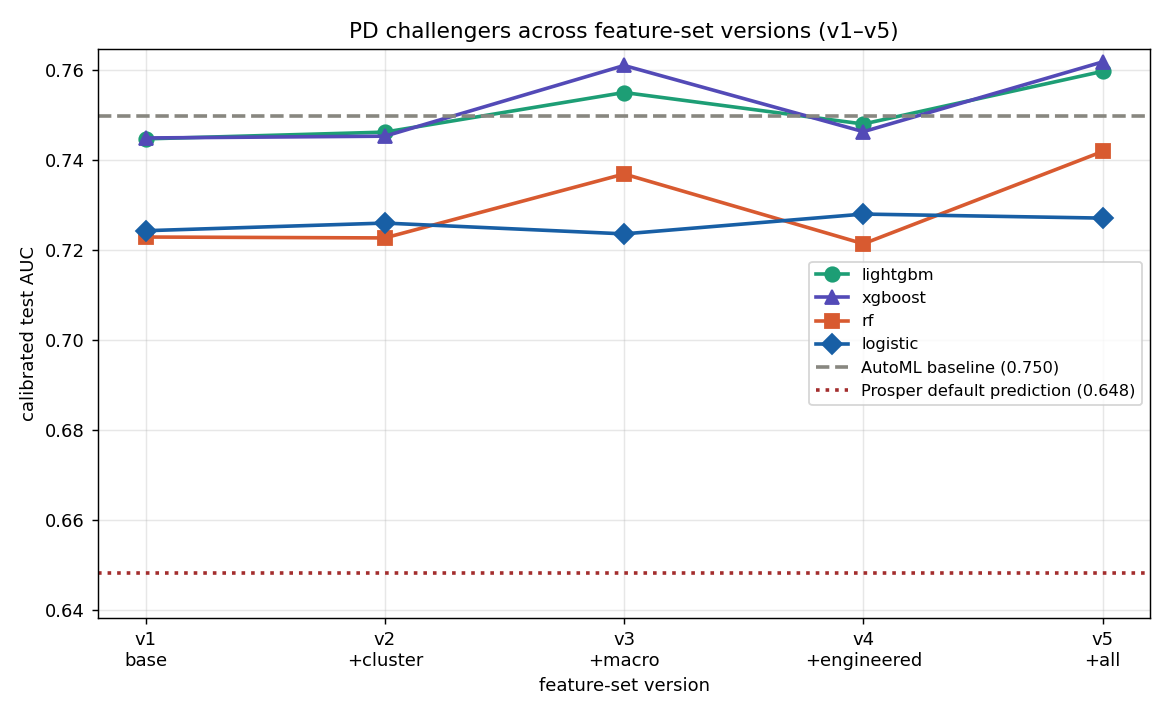
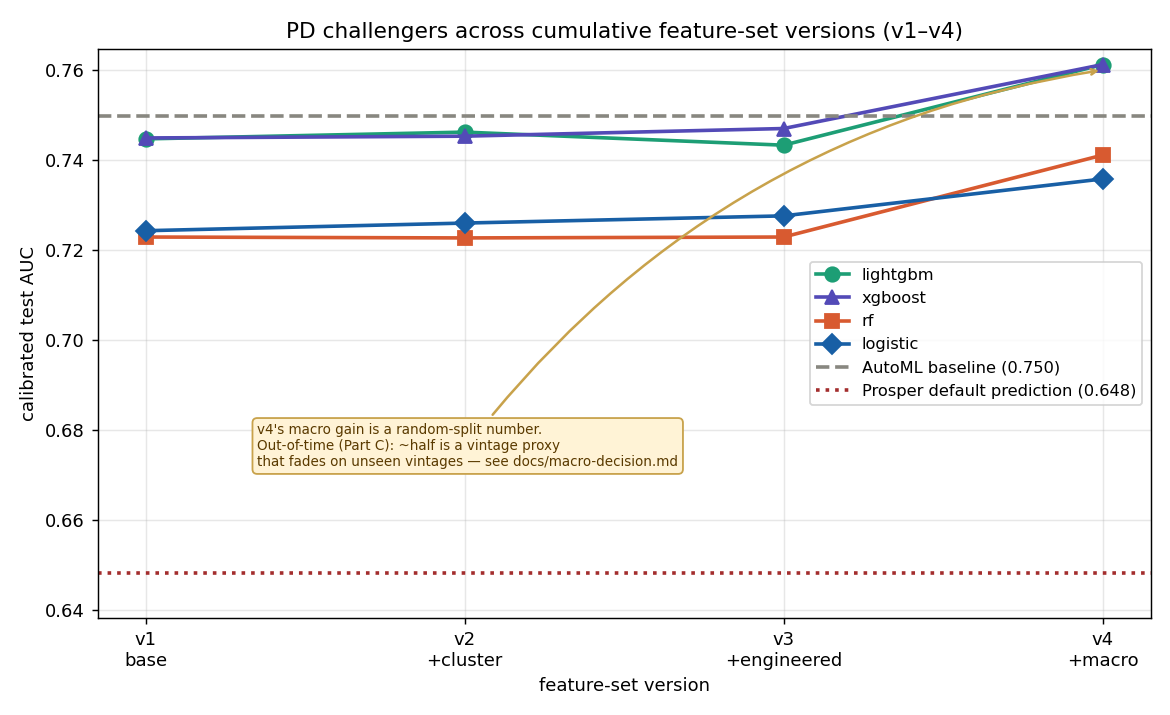
updated documentation and scripts to use XGBoost which was best finetuned model

diff --git a/modeling/calibration_report.py b/modeling/calibration_report.py
@@ -1,0 +1,66 @@
+"""Phase 1 — calibration diagnostics for the production PD model (calibrated XGBoost).
+
+A PD must be a true probability for the Expected-Loss / pricing engine, not just a good ranking.
+This reports two calibration views on the held-out test set:
+  1. by predicted-PD decile  — predicted vs actual default rate in each risk band
+  2. by vintage (origination year) — does the model stay calibrated across cohorts / over time?
+
+  python modeling/calibration_report.py
+
+Saves model-results/calibration_decile.csv and calibration_vintage.csv.
+"""
+from __future__ import annotations
+
+import sys
+from pathlib import Path
+
+import joblib
+import pandas as pd
+
+REPO_ROOT = Path(__file__).resolve().parents[1]
+sys.path.insert(0, str(REPO_ROOT / "modeling"))
+sys.path.insert(0, str(REPO_ROOT / "data"))
+
+from common import data as D, metrics as M  # noqa: E402
+import features as F  # noqa: E402
+
+RESULTS_DIR = REPO_ROOT / "modeling" / "model-results"
+PD_FINE = REPO_ROOT / "modeling" / "probability-of-default" / "pd_xgboost.joblib"
+FMT = {"pred_PD": "{:.3f}".format, "actual_PD": "{:.3f}".format, "gap": "{:+.3f}".format}
+
+
+def main() -> None:
+    if not PD_FINE.exists():
+        raise SystemExit("pd_xgboost.joblib not found — run finetune_xgboost.py first.")
+    art = joblib.load(PD_FINE)
+    pre, model, cols = art["preprocessor"], art["model"], art["feature_cols"]
+
+    test = D.load_frame("test")
+    p = model.predict_proba(pre.transform(test[cols]))[:, 1]   # calibrated PD
+    y = test[F.PD_TARGET].astype(int).to_numpy()
+
+    # 1. By predicted-PD decile.
+    dec = M.calibration_table(y, p, bins=10)
+    print("=== Calibration by predicted-PD decile (held-out test set) ===")
+    print(dec.to_string(index=False, formatters=FMT))
+
+    # 2. By vintage (origination year).
+    year = pd.to_datetime(test["LoanOriginationDate"], errors="coerce").dt.year
+    vint = (pd.DataFrame({"year": year, "y": y, "p": p}).dropna(subset=["year"])
+            .groupby("year").agg(n=("y", "size"), pred_PD=("p", "mean"), actual_PD=("y", "mean")))
+    vint["gap"] = vint["pred_PD"] - vint["actual_PD"]
+    vint = vint.reset_index()
+    vint["year"] = vint["year"].astype(int)
+    print("\n=== Calibration by vintage (origination year, test set) ===")
+    print(vint.to_string(index=False, formatters=FMT))
+
+    RESULTS_DIR.mkdir(parents=True, exist_ok=True)
+    dec.to_csv(RESULTS_DIR / "calibration_decile.csv", index=False)
+    vint.to_csv(RESULTS_DIR / "calibration_vintage.csv", index=False)
+    mae = float((dec["gap"].abs() * dec["n"]).sum() / dec["n"].sum())
+    print(f"\nWeighted mean |predicted - actual| across deciles: {mae:.4f}")
+    print(f"saved calibration_decile.csv + calibration_vintage.csv to {RESULTS_DIR}")
+
+
+if __name__ == "__main__":
+    main()

diff --git a/modeling/common/predictor.py b/modeling/common/predictor.py
@@ -1,10 +1,10 @@
 """RiskPredictor — the single in-process scoring API the frontend uses.
 
 EAD and LGD are always the AutoGluon baselines. PD can come from either the AutoGluon
-baseline ('automl') or the fine-tuned, calibrated LightGBM challenger ('finetuned') —
-the `family` argument is the app's toggle. Only PD has a tuned challenger in v1; EAD/LGD
+baseline ('automl') or the fine-tuned, calibrated XGBoost challenger ('finetuned') —
+the `family` argument is the app's toggle. Only PD has a tuned challenger; EAD/LGD
 are identical across families. For the finetuned family, explain_pd() returns per-borrower
-SHAP reason codes from the LightGBM booster (the adverse-action-style "why").
+SHAP reason codes from the XGBoost booster (the adverse-action-style "why").
 """
 from __future__ import annotations
 
@@ -24,10 +24,10 @@ import features as F  # noqa: E402
 PD_DIR = REPO_ROOT / "modeling" / "probability-of-default" / "automl_model"
 EAD_DIR = REPO_ROOT / "modeling" / "exposure-at-default" / "automl_model"
 LGD_DIR = REPO_ROOT / "modeling" / "loss-given-default" / "automl_model"
-LGBM_PD = REPO_ROOT / "modeling" / "probability-of-default" / "pd_lightgbm.joblib"
+PD_FINE = REPO_ROOT / "modeling" / "probability-of-default" / "pd_xgboost.joblib"
 DEFAULTS_PATH = REPO_ROOT / "models" / "feature_defaults.json"
 
-FAMILY_LABELS = {"automl": "AutoML baseline", "finetuned": "LightGBM (fine-tuned PD)"}
+FAMILY_LABELS = {"automl": "AutoML baseline", "finetuned": "XGBoost (fine-tuned PD)"}
 
 
 def available_families() -> list[str]:
@@ -36,7 +36,7 @@ def available_families() -> list[str]:
     reg = EAD_DIR.exists() and LGD_DIR.exists()
     if PD_DIR.exists() and reg:
         fams.append("automl")
-    if LGBM_PD.exists() and reg:
+    if PD_FINE.exists() and reg:
         fams.append("finetuned")
     return fams
 
@@ -46,7 +46,7 @@ class RiskPredictor:
         self.ead = TabularPredictor.load(str(EAD_DIR))
         self.lgd = TabularPredictor.load(str(LGD_DIR))
         self.pd_automl = TabularPredictor.load(str(PD_DIR)) if PD_DIR.exists() else None
-        self.pd_lgbm = joblib.load(LGBM_PD) if LGBM_PD.exists() else None
+        self.pd_fine = joblib.load(PD_FINE) if PD_FINE.exists() else None
         # Persisted KMeans pipeline (impute->quantile-scale->cluster) for RiskCluster; the
         # SAME object fit on train is applied here in production (no re-fit, no leakage).
         self.risk_cluster = joblib.load(F.RISK_CLUSTER_PATH) if F.RISK_CLUSTER_PATH.exists() else None
@@ -75,12 +75,12 @@ class RiskPredictor:
 
     def _pd(self, X: pd.DataFrame, family: str) -> float:
         if family == "finetuned":
-            if self.pd_lgbm is None:
-                raise RuntimeError("LightGBM PD model not found — run finetune_lightgbm.py")
-            # The fine-tuned model was trained on base + engineered + RiskCluster features,
+            if self.pd_fine is None:
+                raise RuntimeError("XGBoost PD model not found — run finetune_xgboost.py")
+            # The fine-tuned model was trained on base + engineered + RiskCluster + TTC macro,
             # so reproduce all of them on the scoring row before the preprocessor sees it.
-            Xe = self.pd_lgbm["preprocessor"].transform(self._engineer(X))
-            return float(self.pd_lgbm["model"].predict_proba(Xe)[:, 1][0])
+            Xe = self.pd_fine["preprocessor"].transform(self._engineer(X))
+            return float(self.pd_fine["model"].predict_proba(Xe)[:, 1][0])
         proba = self.pd_automl.predict_proba(X)
         pcol = 1 if 1 in proba.columns else proba.columns[-1]
         return float(proba[pcol].iloc[0])
@@ -94,21 +94,26 @@ class RiskPredictor:
         return {"pd": pd_, "lgd": lgd, "ead": ead, "el": pd_ * lgd * ead, "family": family}
 
     def explain_pd(self, inputs: dict, top: int = 6) -> list[tuple[str, float]]:
-        """Top SHAP drivers of this borrower's PD from the LightGBM booster.
+        """Top SHAP drivers of this borrower's PD from the XGBoost booster.
 
         Returns (encoded_feature, log_odds_contribution); positive raises PD. SHAP
         explains the pre-calibration booster, the honest "what drove the score" story.
         """
-        if self.pd_lgbm is None:
+        if self.pd_fine is None:
             return []
         import shap
 
         X = self._row(inputs)
-        Xe = self.pd_lgbm["preprocessor"].transform(self._engineer(X))
+        Xe = self.pd_fine["preprocessor"].transform(self._engineer(X))
         if self._explainer is None:
-            self._explainer = shap.TreeExplainer(self.pd_lgbm["estimator"])
+            self._explainer = shap.TreeExplainer(self.pd_fine["estimator"])
         sv = self._explainer.shap_values(Xe)
         vals = np.asarray(sv[1] if isinstance(sv, list) else sv).reshape(-1)
         feats = list(Xe.columns)
-        order = np.argsort(np.abs(vals))[::-1][:top]
-        return [(feats[i], float(vals[i])) for i in order]
+        # Macro / regional features are identical for every applicant on a given day — they shift
+        # the whole PD level with the cycle, but they don't explain why THIS borrower is riskier
+        # than the next. So drop them from the per-borrower "Why?" reason codes. They still drive
+        # the model; they're just not a valid adverse-action explanation.
+        ranked = [i for i in np.argsort(np.abs(vals))[::-1]
+                  if not feats[i].startswith(("macro_", "state_"))]
+        return [(feats[i], float(vals[i])) for i in ranked[:top]]

diff --git a/modeling/common/metrics.py b/modeling/common/metrics.py
@@ -2,8 +2,10 @@
 from __future__ import annotations
 
 import numpy as np
+import pandas as pd
 from scipy.stats import ks_2samp
 from sklearn.metrics import (
+    average_precision_score,
     brier_score_loss,
     log_loss,
     mean_absolute_error,
@@ -21,11 +23,34 @@ def pd_metrics(y_true, y_score, calibration: bool = True) -> dict:
     y_score = np.asarray(y_score, dtype=float)
     auc = roc_auc_score(y_true, y_score)
     ks = ks_2samp(y_score[y_true == 1], y_score[y_true == 0]).statistic
-    out = {"AUC": auc, "Gini": 2 * auc - 1, "KS": ks}
+    # PR_AUC (average precision) focuses on the positive/default class. SECONDARY metric: it is
+    # prevalence-dependent (a random model scores BaseRate), so always read it next to BaseRate
+    # and never compare it across splits with different default rates (e.g. random vs OOT).
+    out = {"AUC": auc, "Gini": 2 * auc - 1, "KS": ks,
+           "PR_AUC": average_precision_score(y_true, y_score),
+           "BaseRate": float(np.mean(y_true))}
     if calibration:
         out["Brier"] = brier_score_loss(y_true, y_score)
         out["LogLoss"] = log_loss(y_true, y_score)
     return out
+
+
+def calibration_table(y_true, y_score, bins: int = 10) -> pd.DataFrame:
+    """Decile calibration: bucket borrowers by predicted PD, compare predicted vs actual.
+
+    A well-calibrated PD matters more than a well-ranked one for Expected Loss / pricing — when
+    the model says 5%, about 5% of those loans should default. Returns one row per bucket with
+    the count, mean predicted PD, actual default rate, and the gap (predicted - actual).
+    """
+    df = pd.DataFrame({"y": np.asarray(y_true, dtype=float),
+                       "p": np.asarray(y_score, dtype=float)})
+    # qcut by predicted PD; drop duplicate edges if scores are bunched (duplicates='drop').
+    df["bucket"] = pd.qcut(df["p"], bins, labels=False, duplicates="drop")
+    g = (df.groupby("bucket")
+         .agg(n=("y", "size"), pred_PD=("p", "mean"), actual_PD=("y", "mean"))
+         .reset_index(drop=True))
+    g["gap"] = g["pred_PD"] - g["actual_PD"]
+    return g
 
 
 def reg_metrics(y_true, y_pred) -> dict:

diff --git a/modeling/results_visual.py b/modeling/results_visual.py
@@ -67,6 +67,19 @@ def main() -> None:
     ax.set_title("PD challengers across cumulative feature-set versions (v1–v4)")
     ax.grid(alpha=0.3)
     ax.legend(loc="center right", fontsize=9)
+
+    # Caveat callout: the v4 macro jump is a RANDOM-split number. The out-of-time study (Part C)
+    # showed ~half of it is a vintage proxy that fades on unseen vintages — so the durable gain is
+    # smaller, and macro is shipped TTC-anchored. Annotate so the chart isn't read as a pure gain.
+    if len(VERSIONS) >= 4:
+        ax.annotate(
+            "v4's macro gain is a random-split number.\n"
+            "Out-of-time (Part C): ~half is a vintage proxy\n"
+            "that fades on unseen vintages — see docs/macro-decision.md",
+            xy=(3, 0.760), xytext=(0.35, 0.672), fontsize=7.5, color="#5A3A00",
+            bbox=dict(boxstyle="round,pad=0.35", fc="#FFF3D6", ec="#C8A24B", lw=1),
+            arrowprops=dict(arrowstyle="->", color="#C8A24B", lw=1.4,
+                            connectionstyle="arc3,rad=-0.2"))
     fig.tight_layout()
     OUT.parent.mkdir(parents=True, exist_ok=True)
     fig.savefig(OUT, dpi=130)

diff --git a/app/app.py b/app/app.py
@@ -2,7 +2,7 @@
 
 A lender enters origination-time borrower/loan facts and sees PD, LGD, EAD, and the
 resulting Expected Loss (EL = PD x LGD x EAD). It toggles between the AutoML and
-fine-tuned (LightGBM) PD models, explains the PD per-borrower with SHAP, and adds
+fine-tuned (XGBoost) PD models, explains the PD per-borrower with SHAP, and adds
 risk-based pricing (lifetime ECL, expected profit/RAROC, recommended APR).
 
 Price (the offered APR) is collected only as a financial input/output — it is never
@@ -200,7 +200,7 @@ def render_result(family: str, loan_amt: float, r: dict) -> None:
 
 
 def render_explanation(drivers: list) -> None:
-    """Render the per-borrower SHAP reason codes (LightGBM PD) as a Win98 panel."""
+    """Render the per-borrower SHAP reason codes (XGBoost PD) as a Win98 panel."""
     if not drivers:
         return
     rows = ""
@@ -215,7 +215,7 @@ def render_explanation(drivers: list) -> None:
           <div class="body">
             {rows}
             <div class="drv-note">Log-odds contribution to this borrower's default probability,
-            from the LightGBM model. Positive pushes PD up, negative pushes it down.</div>
+            from the XGBoost model. Positive pushes PD up, negative pushes it down.</div>
           </div>
         </div>
         """,

diff --git a/docs/V3_PLAN.md b/docs/V3_PLAN.md
@@ -13,6 +13,65 @@ not model-bound** — so v3's accuracy work is feature engineering, and the bigg
 
 ---
 
+## Status & remaining-work plan (updated 2026-06)
+
+**Done since this plan was written:**
+
+- ✅ **Out-of-time (vintage) validation harness** — `run_partc.py` / `run_finalize.py`. The
+  random-vs-OOT study is in place and is now the lens for every feature decision.
+- ✅ **Feature-engineering pass** — engineered ratios + `RiskCluster`, measured in the cumulative
+  v1→v4 matrix (`run_matrix.py`, `docs/finetuning_matrix.png`). Finding: redundant once clustering
+  is in; the ~0.75 ceiling is **information-bound**, not model-bound.
+- ✅ **Point-in-time macro overlay**, kept **TTC-anchored** after the OOT study
+  (`docs/macro-decision.md`).
+- ✅ **Production PD model = calibrated XGBoost** (best-or-tied across the matrix, test AUC 0.7612).
+
+**Remaining — phased:**
+
+### Phase 0 — ✅ DONE: keep macro out of borrower-level SHAP
+Macro features were surfacing as top drivers in the per-borrower "Why?" panel, but macro is
+identical for every applicant on a given day, so it is not a valid adverse-action reason.
+**Shipped:** `predictor.explain_pd()` now drops `macro_`/`state_` columns from the per-borrower
+reason codes (they still drive the model; they're just not shown as a personal "why").
+
+### Phase 1 — ✅ DONE: sharpen validation metrics
+**Shipped:** `metrics.calibration_table()` (decile predicted-vs-actual) + `modeling/calibration_report.py`
+(by-decile and by-vintage views for the production model; the calibrated XGBoost is well-calibrated —
+weighted mean |pred − actual| ≈ 0.017 across deciles). Added **PR-AUC + BaseRate** to `pd_metrics`
+as a secondary, prevalence-captioned metric (never compared across the random/OOT split).
+
+### Phase 2 — discrete-time hazard model (the technical core)
+**→ Detailed build plan: [`docs/phase2-hazard-plan.md`](phase2-hazard-plan.md).** In brief:
+- Build the **loan-month panel**: one row per loan per month it was alive; target =
+  `defaulted_this_month`; the month index (or a spline of it) as a feature. This recovers the
+  `Current` loans v1 dropped, entering them as **censored** observations.
+- Fit the **XGBoost** classifier on it → the predicted probability *is* the monthly hazard `h(t|x)`.
+  Calibrate + SHAP as today.
+- **Wire it into `finance.py`** to replace the empirical default-timing curve → a model-driven PD
+  term structure for the lifetime ECL.
+- **Benchmark** vs scikit-survival (`RandomSurvivalForest` / `GradientBoostingSurvivalAnalysis`);
+  evaluate with time-dependent AUC, IPCW concordance, and integrated Brier score.
+
+### Phase 3 — ECL backtest (tie predictions to realized dollars)
+- Predicted vs **realized dollar losses by vintage**, with calibration-by-vintage plots. This ties
+  the financial engine to reality and is the credibility centerpiece.
+
+### Phase 4 — packaging (the portfolio narrative)
+- **Model card (SR 11-7 style):** intended use, data, metrics, limitations, the fair-lending
+  treatment of geography/occupation, and a reject-inference / selection-bias note (Prosper shows
+  only *funded* loans).
+- **Results notebook** with the money charts: PD term-structure curves, calibration-by-vintage, OOT
+  performance, and the ECL backtest. Refresh the README to point to it.
+
+**Sequence: 0 → 1 → 2 → 3 → 4.** Phase 0 is a correctness fix; Phase 1 is cheap and de-risks the
+rest; Phase 2 is the big build; Phase 3 depends on Phase 2's timing; Phase 4 packages the story.
+
+**Deferred beyond v3 (🔭):** regional state-unemployment overlay (pipeline already built —
+`build_state_features.py` — needs the FRED pull), prepayment / competing-risks survival, a two-stage
+(cure → severity) LGD model, CCAR / IFRS-9 stress scenarios, and full ECOA adverse-action reason codes.
+
+---
+
 ## Design decision: discrete-time hazard, with scikit-survival as a benchmark
 
 The v2 finance engine spreads a single lifetime PD over the loan's life using an **empirical**

diff --git a/README.md b/README.md
@@ -12,13 +12,13 @@ Expected Loss (EL) = PD × LGD × EAD
 
 | Component | Meaning | Model |
 |-----------|---------|-------|
-| **PD**  | Probability of Default        | Calibrated binary classifier (**LightGBM**, fine-tuned), benchmarked against an AutoML baseline **and** Prosper's own grade ranking |
+| **PD**  | Probability of Default        | Calibrated binary classifier (**XGBoost**, fine-tuned), benchmarked against an AutoML baseline **and** Prosper's own grade ranking |
 | **LGD** | Loss Given Default (fraction) | Regressor, benchmarked against a mean-LGD baseline |
 | **EAD** | Exposure at Default ($)       | Regressor, benchmarked against a full-exposure baseline |
 
 A local **Streamlit** app (styled as a Windows-98 underwriting terminal) lets a lender enter
 a borrower/loan and: see PD, LGD, EAD and the resulting Expected Loss; toggle between the
-AutoML and fine-tuned (LightGBM) PD models; read a per-borrower **SHAP** explanation of the
+AutoML and fine-tuned (XGBoost) PD models; read a per-borrower **SHAP** explanation of the
 risk drivers; and get **risk-based pricing** — a discounted lifetime expected loss, expected
 profit / RAROC, and a recommended APR.
 
@@ -53,12 +53,12 @@ See [Project status](#project-status) for the per-step breakdown.
 | B | AutoML baselines — PD/EAD/LGD + lazy/champion (`train_baselines.py`) | ✅ Done |
 | C | `RiskPredictor` serving interface (`modeling/common/predictor.py`)   | ✅ Done |
 | D | Streamlit Win98 frontend (`app/app.py`)                             | ✅ Done |
-| E | Fine-tuned PD — LightGBM + SHAP, behind the toggle                   | ✅ Done |
+| E | Fine-tuned PD — XGBoost + SHAP, behind the toggle                    | ✅ Done |
 
 **v1 (Steps A–E) is complete**: a locally-run Win98 dashboard scoring PD/LGD/EAD/EL, with a
-working AutoML-vs-LightGBM PD toggle and per-borrower SHAP. The LightGBM model was chosen
-after a like-for-like comparison against XGBoost and Random Forest (kept as `finetune_*.py`
-due-diligence scripts).
+working AutoML-vs-XGBoost PD toggle and per-borrower SHAP. XGBoost is the shipped challenger —
+it was best-or-tied across the cumulative feature-set matrix against LightGBM and Random Forest
+(all kept as `finetune_*.py` due-diligence scripts).
 
 **v2 — complete.** A financial engine (`modeling/common/finance.py`) turns PD/LGD/EAD into
 lender decisions: a discounted **lifetime ECL**, **expected profit / RAROC**, and **risk-based
@@ -180,7 +180,8 @@ To enable the fine-tuned PD toggle and the data-built default-timing curve (opti
 app falls back to the AutoML PD and a built-in timing curve without them):
 
 ```bash
-python modeling/probability-of-default/finetune_lightgbm.py   # fine-tuned PD (LightGBM) + SHAP
+python modeling/build_risk_clusters.py                        # RiskCluster segmentation (train-only)
+python modeling/probability-of-default/finetune_xgboost.py    # fine-tuned PD (XGBoost) + SHAP
 python modeling/build_default_timing.py                       # default-timing curve for pricing
 ```
 
@@ -213,11 +214,12 @@ streamlit run app/app.py
 - **Imputation highlights.** Credit-bureau numerics → median; `DebtToIncomeRatio` →
   group-median by `IncomeRange` (cap `10.01` flagged, not treated as a value); prior-Prosper
   fields → fill 0 + `is_repeat_borrower` (informative nulls, never median).
-- **Fine-tuned PD.** LightGBM, FLAML-tuned and isotonic-calibrated, chosen after a
-  like-for-like comparison with XGBoost and Random Forest (all on the same split/features).
-  Shipped on the base + engineered + RiskCluster + TTC-macro feature set (see the macro bullet
-  below). It ties the AutoML baseline within statistical noise; shipped for its single-model
-  transparency and fast SHAP. EAD/LGD stay on the AutoML baseline under both toggle states.
+- **Fine-tuned PD.** XGBoost, FLAML-tuned and isotonic-calibrated, chosen after a like-for-like
+  comparison with LightGBM and Random Forest (all on the same split/features). It was **best or
+  tied in every version of the cumulative matrix** and tops it at v4 (0.7612), edging the AutoML
+  baseline (0.750) once the macro overlay is in. Shipped on the base + engineered + RiskCluster +
+  TTC-macro feature set (see the macro bullet below), with per-borrower SHAP for the "Why?" panel.
+  EAD/LGD stay on the AutoML baseline under both toggle states.
 - **Macro overlay (TTC-anchored).** Unemployment + fed funds at origination are added as a
   *through-the-cycle*–anchored feature (smoothed and shrunk toward a long-run mean), not the
   raw point-in-time level. We tested this hard: raw macro lifts AUC ~+0.015 on a random split
@@ -250,7 +252,7 @@ assumptions (the PD-timing approximation; prepayment is not yet modeled).
 ### Platform note
 
 Everything runs natively on **Windows** (and macOS/Linux). The AutoML baselines use
-**AutoGluon** and the fine-tuned PD model uses **LightGBM** — no WSL2, Docker, or Linux-only
+**AutoGluon** and the fine-tuned PD model uses **XGBoost** — no WSL2, Docker, or Linux-only
 dependency is required.
 
 ---